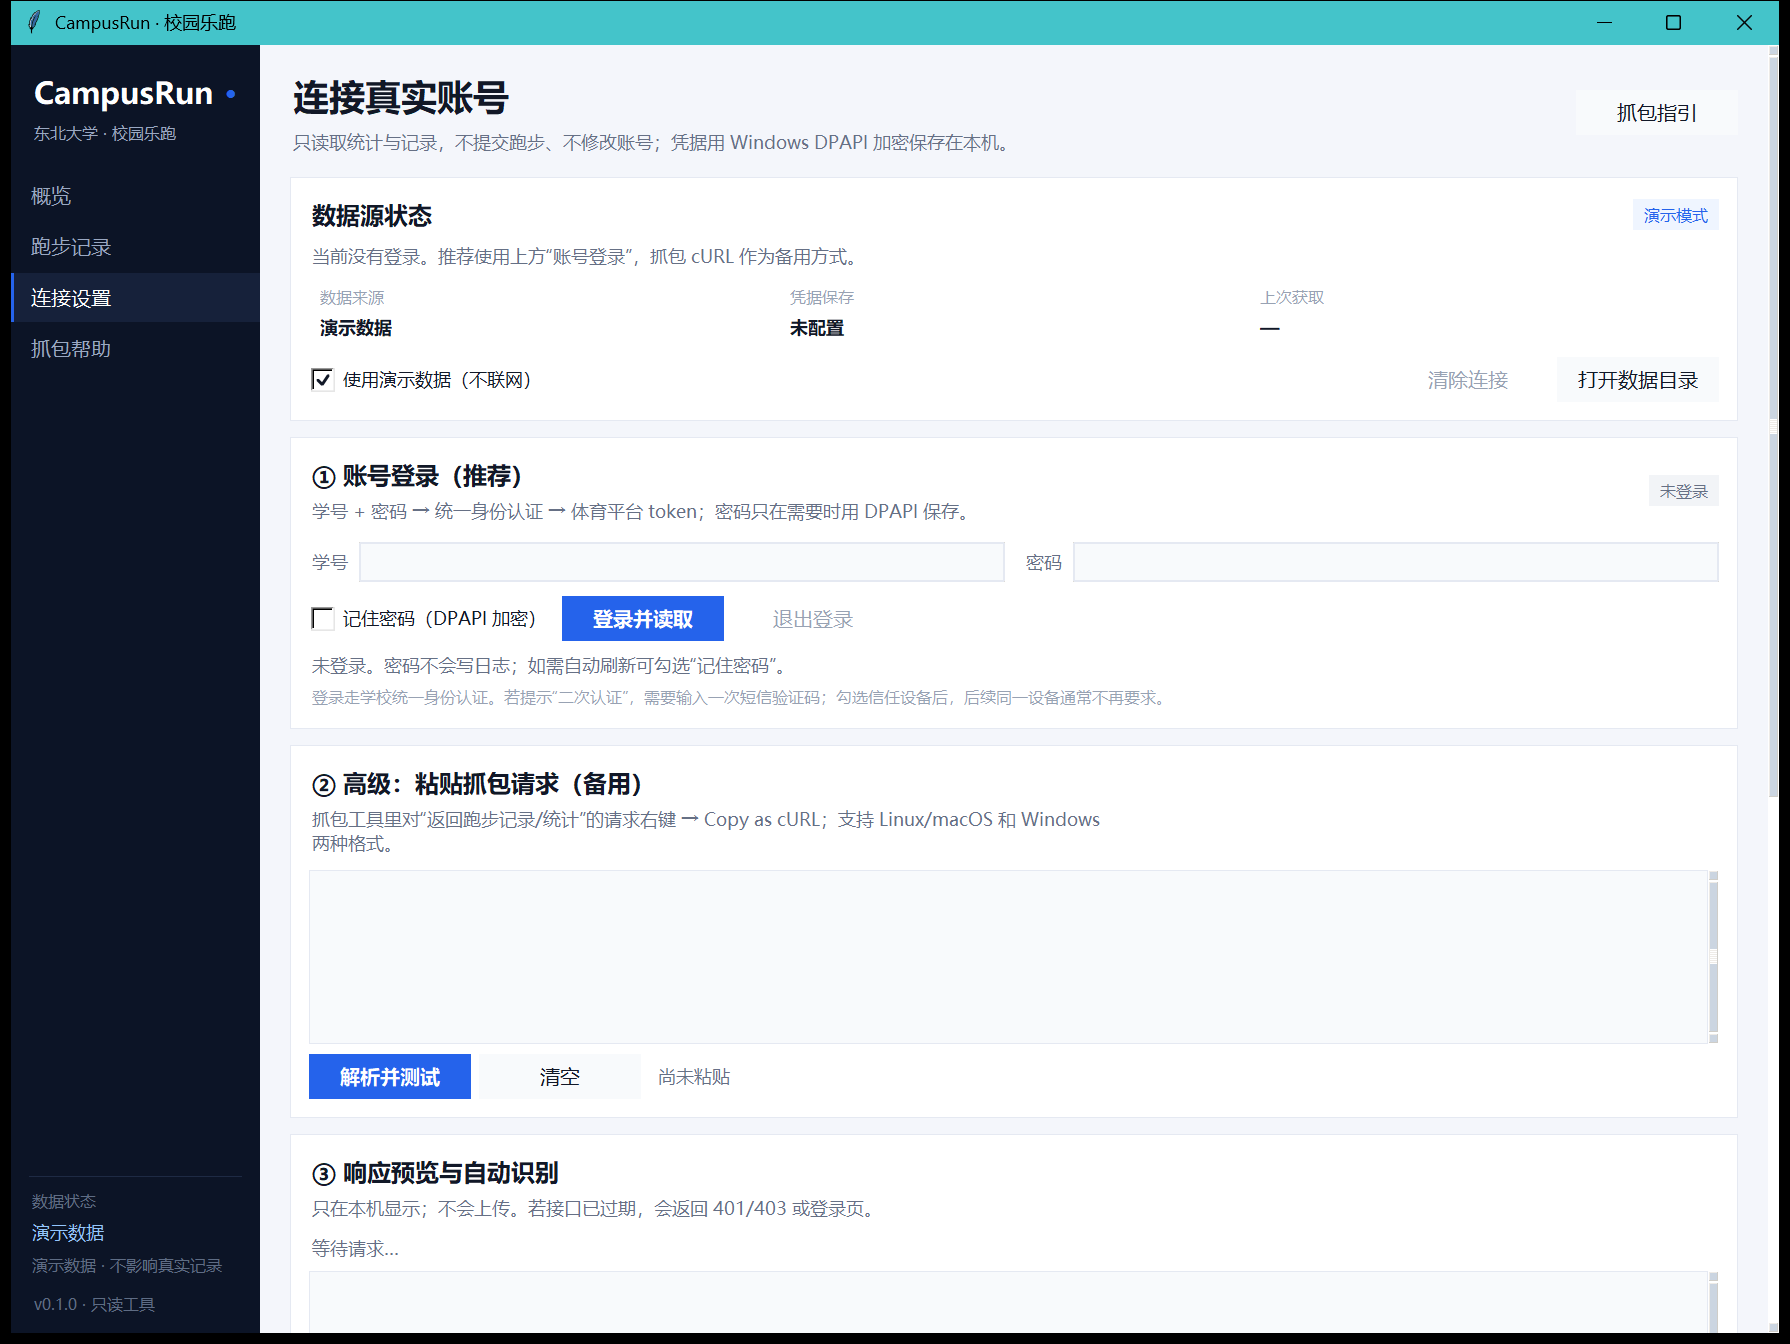
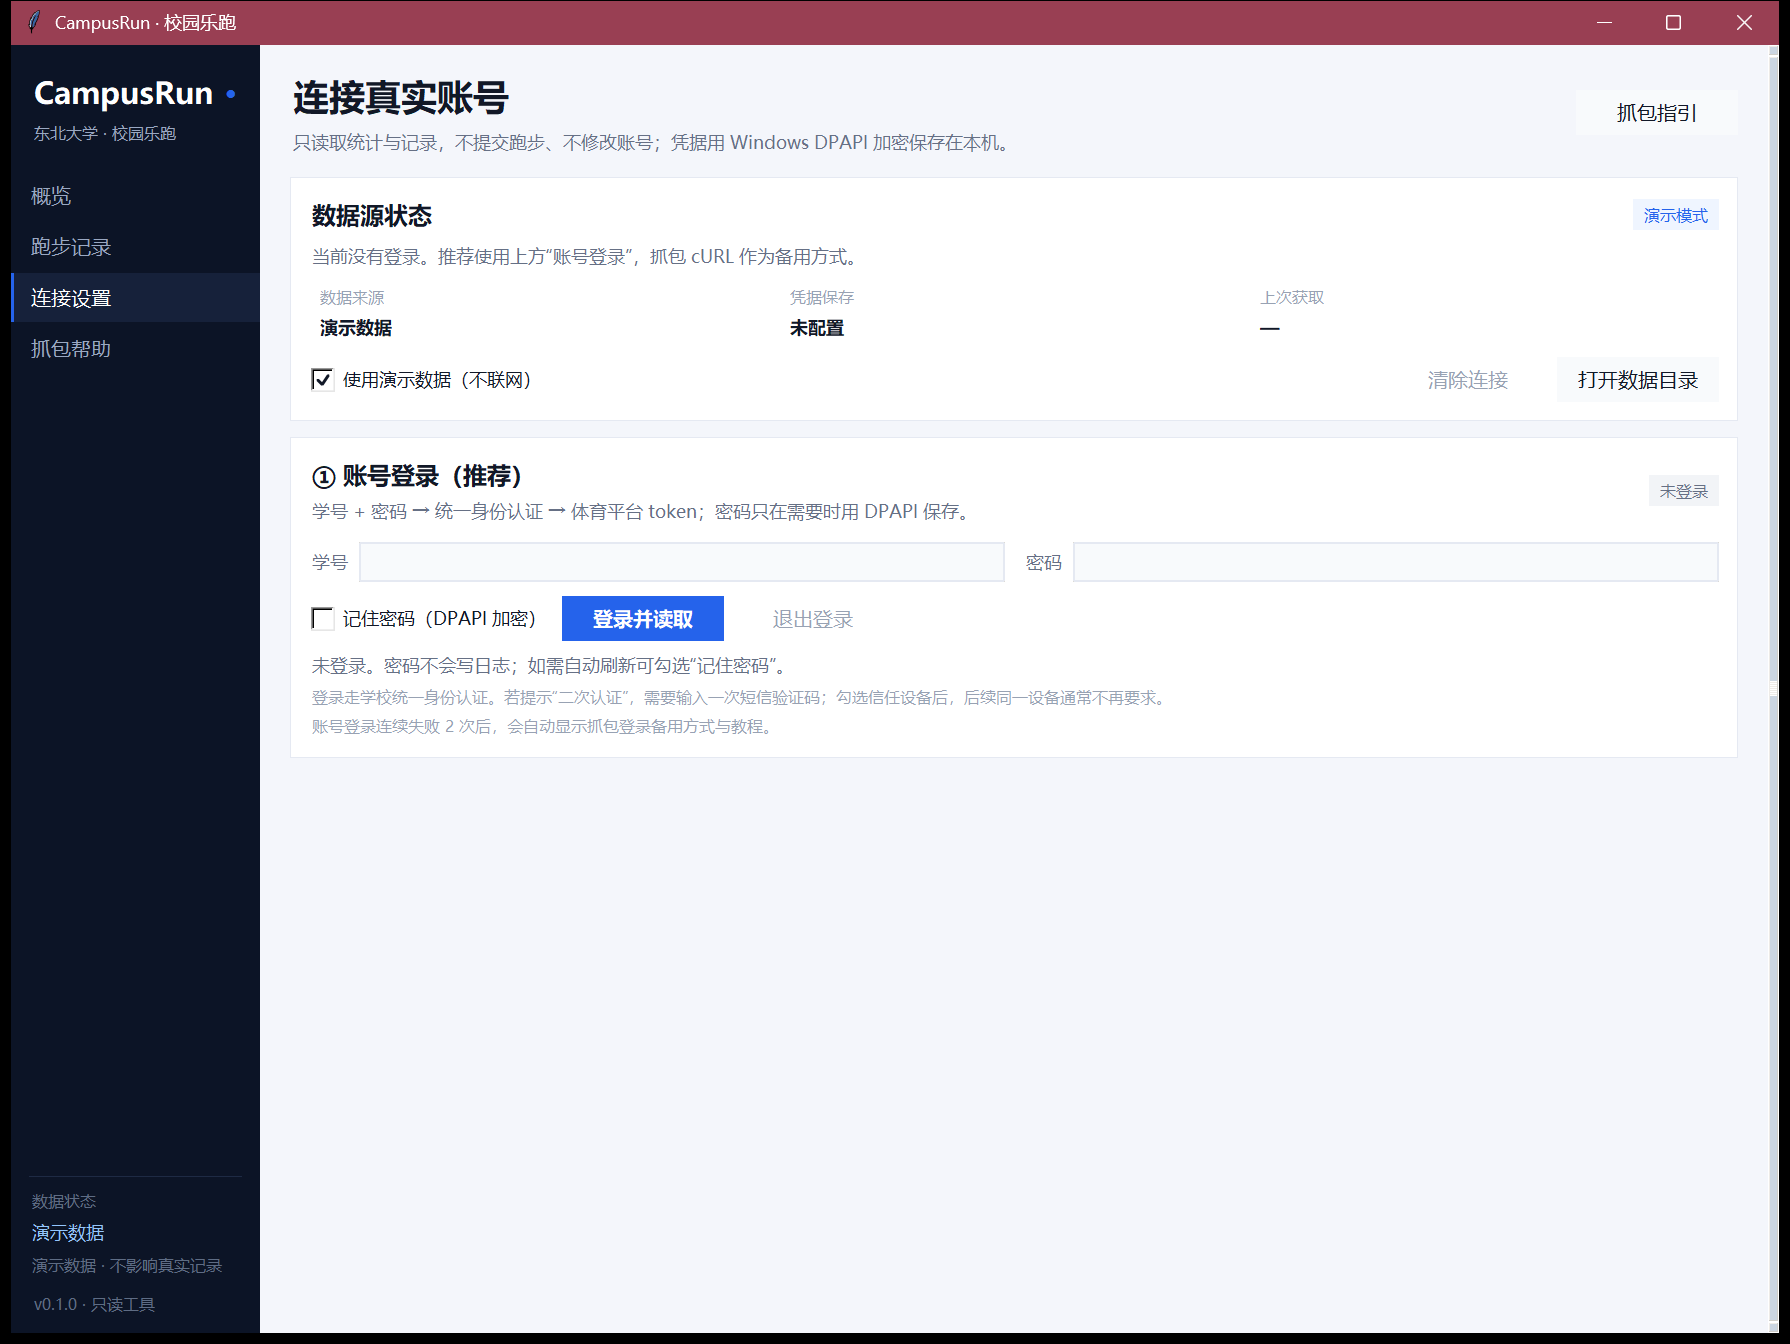
feat: 账号登录失败两次自动显示抓包备用与教程

diff --git a/src/campusrun/ui/connection.py b/src/campusrun/ui/connection.py
@@ -37,7 +37,12 @@ class ConnectionPage(tk.Frame):
         self._payload = None
         self._mapping: FieldMapping | None = None
         self._busy = False
+        self._capture_visible = False
+        self._neu_failures = 0
         self._build()
+        self._hide_capture_section()
+        if self.app.service.has_connection:
+            self._reveal_capture_section()
         self._load_existing_mapping()
 
     # ------------------------------------------------------------------
@@ -225,9 +230,43 @@ class ConnectionPage(tk.Frame):
             justify="left",
             wraplength=980,
         ).pack(anchor="w", pady=(3, 0))
+        tk.Label(
+            card.body,
+            text="账号登录连续失败 2 次后，会自动显示抓包登录备用方式与教程。",
+            bg=CARD,
+            fg=FAINT,
+            font=font("tiny"),
+            anchor="w",
+            justify="left",
+            wraplength=980,
+        ).pack(anchor="w", pady=(2, 0))
+
+    def _hide_capture_section(self) -> None:
+        for widget in (
+            getattr(self, "capture_card", None),
+            getattr(self, "preview_card", None),
+            getattr(self, "mapping_card", None),
+            getattr(self, "footer_card", None),
+        ):
+            if widget is not None and widget.winfo_manager():
+                widget.pack_forget()
+        self._capture_visible = False
+
+    def _reveal_capture_section(self) -> None:
+        if self._capture_visible:
+            return
+        for widget, pady in (
+            (self.capture_card, 8),
+            (self.preview_card, 8),
+            (self.mapping_card, 8),
+            (self.footer_card, (4, 26)),
+        ):
+            widget.pack(fill="x", padx=30, pady=pady)
+        self._capture_visible = True
 
     def _build_capture(self, parent: tk.Misc) -> None:
         card = Card(parent, padding=18)
+        self.capture_card = card
         card.pack(fill="x", padx=30, pady=8)
         section_title(
             card.body,
@@ -280,6 +319,7 @@ class ConnectionPage(tk.Frame):
 
     def _build_preview(self, parent: tk.Misc) -> None:
         card = Card(parent, padding=18)
+        self.preview_card = card
         card.pack(fill="x", padx=30, pady=8)
         section_title(
             card.body,
@@ -322,6 +362,7 @@ class ConnectionPage(tk.Frame):
 
     def _build_mapping(self, parent: tk.Misc) -> None:
         card = Card(parent, padding=18)
+        self.mapping_card = card
         card.pack(fill="x", padx=30, pady=8)
         section_title(
             card.body,
@@ -416,6 +457,7 @@ class ConnectionPage(tk.Frame):
 
     def _build_footer(self, parent: tk.Misc) -> None:
         frame = tk.Frame(parent, bg=BG)
+        self.footer_card = frame
         frame.pack(fill="x", padx=30, pady=(4, 26))
         tk.Label(
             frame,
@@ -483,6 +525,8 @@ class ConnectionPage(tk.Frame):
         self.clear_conn_btn.configure(state="normal" if service.has_connection else "disabled")
         self.save_btn.configure(state="normal" if (self._request and self._payload) else "disabled")
         self._refresh_neu_status()
+        if service.has_connection and not self._capture_visible:
+            self._reveal_capture_section()
 
     def _refresh_neu_status(self) -> None:
         service = self.app.service
@@ -542,6 +586,9 @@ class ConnectionPage(tk.Frame):
 
     def _neu_login_ok(self, summary) -> None:
         self._neu_busy(False)
+        self._neu_failures = 0
+        if not self.app.service.has_connection:
+            self._hide_capture_section()
         self.neu_pass_var.set("")
         self.app.plan = self.app.service.plan()
         self.app.refresh_views()
@@ -555,7 +602,18 @@ class ConnectionPage(tk.Frame):
 
     def _neu_login_error(self, exc: Exception) -> None:
         self._neu_busy(False)
+        self._neu_failures += 1
         self.neu_status.configure(text=f"登录失败：{exc}", fg=DANGER)
+        if self._neu_failures >= 2 and not self._capture_visible:
+            self._reveal_capture_section()
+            open_tutorial = messagebox.askyesno(
+                "账号登录连续失败",
+                f"{exc}\n\n账号登录连续失败 2 次，已显示抓包登录备用方式。\n是否打开抓包教程？",
+                parent=self.app,
+            )
+            if open_tutorial:
+                self.app.show_page("help")
+            return
         self.app.show_error("登录失败", str(exc))
 
     def _neu_busy(self, busy: bool) -> None:
@@ -576,6 +634,10 @@ class ConnectionPage(tk.Frame):
         self.app.service.clear_neu_login(clear_credentials=True)
         self.app.service.set_demo_mode(True)
         self._neu_busy(False)
+        self._neu_failures = 0
+        self._hide_capture_section()
+        if self.app.service.has_connection:
+            self._reveal_capture_section()
         self.neu_pass_var.set("")
         self.app.plan = self.app.service.plan()
         self.app.refresh_views()

diff --git a/src/campusrun/config.py b/src/campusrun/config.py
@@ -91,7 +91,7 @@ class AppConfig:
     rest_weekdays: list[int] = field(default_factory=list)
     demo_mode: bool = True
     count_mode: str = "best_per_day"
-    auth_mode: str = "curl"
+    auth_mode: str = "password"
     remember_password: bool = False
     neu_username: str = ""
     window_geometry: str = ""
@@ -187,9 +187,9 @@ class AppConfig:
 
         geometry = str(raw.get("window_geometry") or "")
         last_page = str(raw.get("last_page") or "dashboard")
-        auth_mode = str(raw.get("auth_mode") or "curl")
+        auth_mode = str(raw.get("auth_mode") or "password")
         if auth_mode not in ("curl", "password"):
-            auth_mode = "curl"
+            auth_mode = "password"
         return cls(
             target_km=target,
             deadline=deadline,

diff --git a/docs/LOGIN-NOTES.md b/docs/LOGIN-NOTES.md
@@ -85,7 +85,7 @@
 | `neu/sports.py` | 体育平台 AES/签名、学期/记录/用户信息、分页 |
 | `neu/store.py` | `sports_session.dat` / `credentials.dat`（DPAPI） |
 | `service.py` | 登录、刷新、token 过期自动重登、与规划缓存集成 |
-| `ui/connection.py` | “① 账号登录”卡片：学号/密码/记住密码/登录/退出/短信弹窗 |
+| `ui/connection.py` | “① 账号登录”卡片：学号/密码/记住密码/登录/退出/短信弹窗；抓包备用默认隐藏，连续失败 2 次显示并提示教程 |
 | `cli.py` | `login --remember`、`logout`、`fetch` 自动使用账号会话 |
 
 已用真实 HAR 验证：

diff --git a/README.md b/README.md
@@ -93,6 +93,9 @@ campusrun.cmd doctor
 在“连接设置 → ① 账号登录”输入学号/密码即可；如果 CAS 要求二次认证，会弹窗输入短信码。
 勾选“记住密码”后，密码用 DPAPI 保存，token 过期时可自动重登；不勾选则只保存 token。
 
+> 抓包 cURL 备用方式默认隐藏。账号登录连续失败 2 次后，程序会自动显示“② 高级：粘贴抓包请求”，
+> 并询问是否打开抓包教程；账号登录成功后恢复隐藏。
+
 ### 方式二：抓包 cURL（备用）
 
 如果账号登录遇到验证码/风控，可以抓一条已登录状态的查询请求：

diff --git a/AGENTS.md b/AGENTS.md
@@ -74,6 +74,8 @@ docs/              CAPTURE.md, API-NOTES.md, LOGIN-NOTES.md, 截图
   接口字段见 `docs/API-NOTES.md`。
 - 下一步：用户运行 `campusrun.cmd login --remember` 或 GUI 登录，报告是否需要短信/错误码；
   若真实 CAS 表单与 mock 有差异，按错误页面微调。
+- 交互约定：抓包备用方式默认隐藏；账号登录连续失败 2 次自动显示并提示抓包教程；
+  登录成功/退出后恢复隐藏（已有 cURL 连接时保持显示）。
 
 ## 5. 设计决策
 
